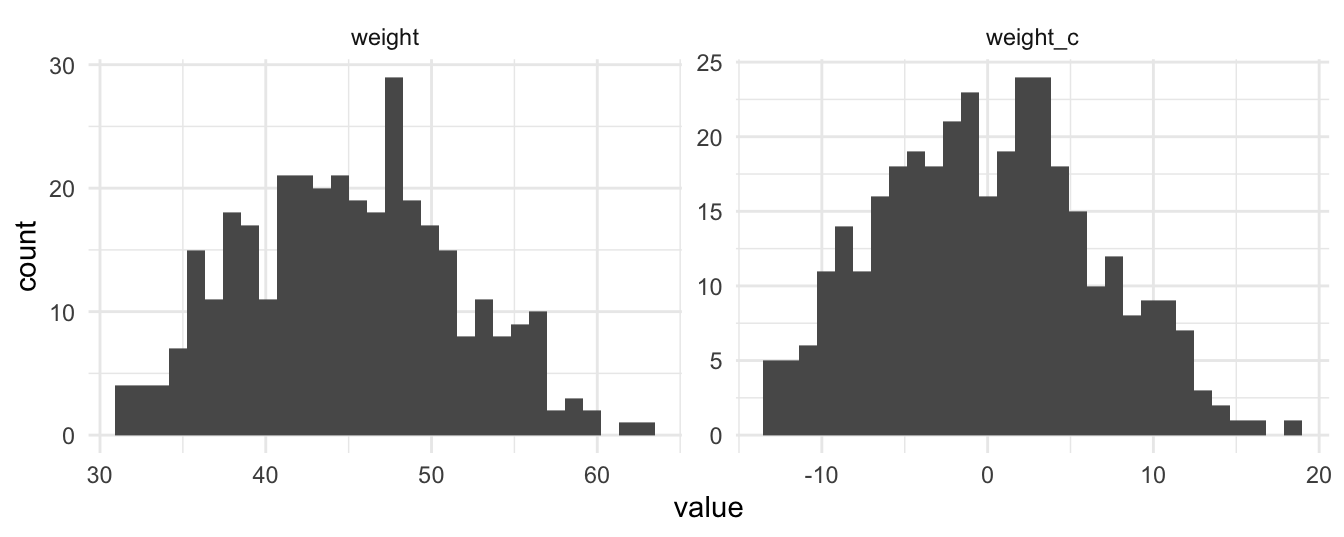
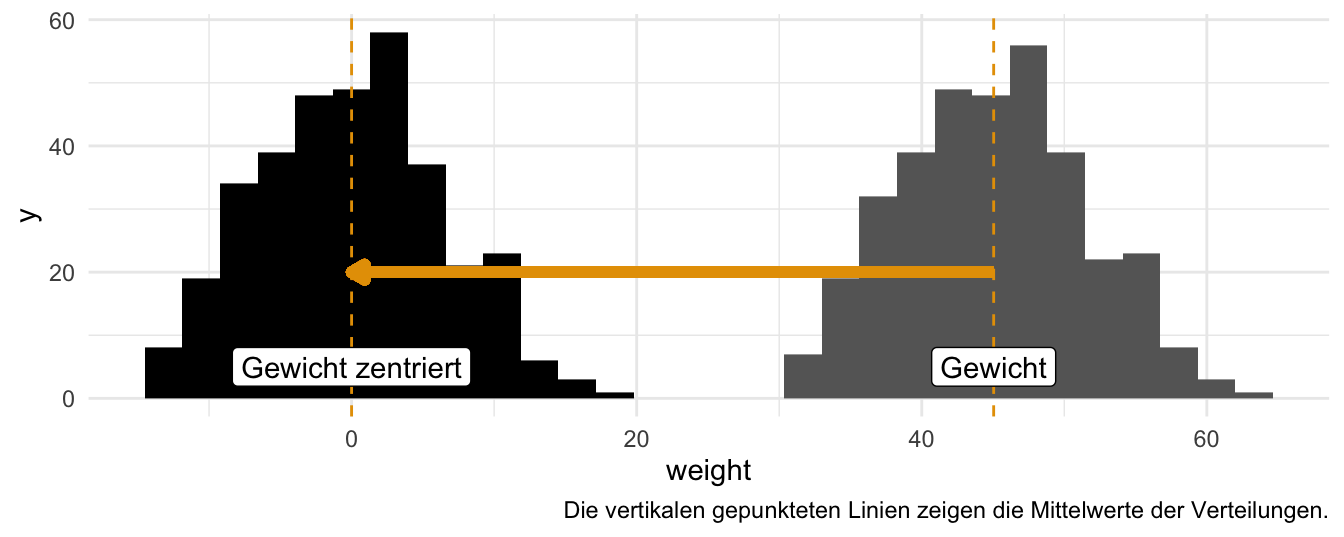
fix diagram

diff --git a/docs/0900-lineare-modelle.html b/docs/0900-lineare-modelle.html
@@ -549,7 +549,7 @@ window.Quarto = {
 <section id="sec-data-lm" class="level3" data-number="8.1.6">
 <h3 data-number="8.1.6" class="anchored" data-anchor-id="sec-data-lm"><span class="header-section-number">8.1.6</span> Benötigte Daten</h3>
 <p>In diesem Kapitel benötigen wir den Datensatz zu den !Kung-Leuten, <code>Howell1a</code>, <span class="citation" data-cites="mcelreath2020">McElreath (<a href="references.html#ref-mcelreath2020" role="doc-biblioref">2020</a>)</span>. Sie können ihn <a href="https://raw.githubusercontent.com/sebastiansauer/Lehre/main/data/Howell1a.csv">hier</a> herunterladen.</p>
[2 lines of base64/hex data omitted]
       const downloadURL = window.URL.createObjectURL(blob);
       const a = document.createElement('a');
       document.body.appendChild(a);
@@ -557,7 +557,7 @@ window.Quarto = {
       a.download = 'Howell1a.csv'; a.click();
       window.URL.revokeObjectURL(downloadURL);
       document.body.removeChild(a);
-        });"><button class="btn btn-default downloadthis  " id="dnldts18908"><i class="bi bi-download"></i> Download </button></a></p>
+        });"><button class="btn btn-default downloadthis  " id="dnldts40681"><i class="bi bi-download"></i> Download </button></a></p>
 <div class="cell" data-layout-align="center">
 <details class="code-fold">
 <summary>Code</summary>
@@ -1373,28 +1373,16 @@ Abbildung&nbsp;8.5: Korrelationsmatrix
 </div>
 </div>
 </div>
-<p>Wie man sieht, ist die Verteilung “zur Seite geschoben”: Der Mittelwert liegt jetzt eben bei 0, s. <span class="quarto-unresolved-ref">?fig-d3-center</span>.</p>
+<p>Wie man sieht, wird die Verteilung von <code>weight</code> durch die Zentrierung “zur Seite geschoben”: Der Mittelwert von <code>weight_c</code> (das zentrierte Gewicht) liegt jetzt bei 0, s. <a href="#fig-d3-center" class="quarto-xref">Abbildung&nbsp;<span>8.6</span></a>.</p>
 <div class="cell" data-layout-align="center">
 <div class="cell-output-display">
-<div id="fig-d3-center-1" class="quarto-float quarto-figure quarto-figure-center anchored" data-fig-align="center">
+<div id="fig-d3-center" class="quarto-float quarto-figure quarto-figure-center anchored" data-fig-align="center">
 <figure class="quarto-float quarto-float-fig figure">
-<div aria-describedby="fig-d3-center-1-caption-0ceaefa1-69ba-4598-a22c-09a6ac19f8ca">
+<div aria-describedby="fig-d3-center-caption-0ceaefa1-69ba-4598-a22c-09a6ac19f8ca">
 <img src="0900-lineare-modelle_files/figure-html/fig-d3-center-1.png" class="img-fluid quarto-figure quarto-figure-center figure-img" style="width:75.0%">
 </div>
-<figcaption class="quarto-float-caption-bottom quarto-float-caption quarto-float-fig" id="fig-d3-center-1-caption-0ceaefa1-69ba-4598-a22c-09a6ac19f8ca">
+<figcaption class="quarto-float-caption-bottom quarto-float-caption quarto-float-fig" id="fig-d3-center-caption-0ceaefa1-69ba-4598-a22c-09a6ac19f8ca">
 Abbildung&nbsp;8.6: Das Zentrieren ändert die Verteilungsform nicht, sondern “schiebt” die Verteilung nur zur Seite
-</figcaption>
-</figure>
-</div>
-</div>
-<div class="cell-output-display">
-<div id="fig-d3-center-2" class="quarto-float quarto-figure quarto-figure-center anchored" data-fig-align="center">
-<figure class="quarto-float quarto-float-fig figure">
-<div aria-describedby="fig-d3-center-2-caption-0ceaefa1-69ba-4598-a22c-09a6ac19f8ca">
-<img src="0900-lineare-modelle_files/figure-html/fig-d3-center-2.png" class="img-fluid quarto-figure quarto-figure-center figure-img" style="width:75.0%">
-</div>
-<figcaption class="quarto-float-caption-bottom quarto-float-caption quarto-float-fig" id="fig-d3-center-2-caption-0ceaefa1-69ba-4598-a22c-09a6ac19f8ca">
-Abbildung&nbsp;8.7: Das Zentrieren ändert die Verteilungsform nicht, sondern “schiebt” die Verteilung nur zur Seite
 </figcaption>
 </figure>
 </div>
@@ -2076,7 +2064,7 @@ Tabelle&nbsp;8.2: Parameter von m43a
 <div id="def-pd" class="theorem definition">
 <p><span class="theorem-title"><strong>Definition 8.1 (Effektwahrscheinlichkeit)</strong></span> Die Kennzahl <code>pd</code> (propability of direction) gibt die <em>Effektwahrscheinlichkeit</em> an: Die Wahrscheinlichkeit, dass der Effekt positiv (also größer als Null) oder negativ ist (je nachdem ob der Median des Effekts positiv oder negativ ist). <code>pd</code> gibt aber nicht an, wie stark der Effekt ist, nur ob er klar auf einer Seite der Null liegt. Damit ist er so etwas (grob!) Ähnliches wie der p-Wert in der Frequentistischen Statistik <span class="citation" data-cites="makowski2019">(<a href="references.html#ref-makowski2019" role="doc-biblioref">Makowski et al., 2019</a>)</span>.</p>
 </div>
-<p>Am besten das Diagramm dazu anschauen, s <a href="#fig-pd1" class="quarto-xref">Abbildung&nbsp;<span>8.8</span></a>.</p>
+<p>Am besten das Diagramm dazu anschauen, s <a href="#fig-pd1" class="quarto-xref">Abbildung&nbsp;<span>8.7</span></a>.</p>
 <div class="cell" data-layout-align="center">
 <details class="code-fold">
 <summary>Code</summary>
@@ -2089,7 +2077,7 @@ Tabelle&nbsp;8.2: Parameter von m43a
 <img src="0900-lineare-modelle_files/figure-html/fig-pd1-1.png" class="img-fluid quarto-figure quarto-figure-center figure-img" style="width:75.0%">
 </div>
 <figcaption class="quarto-float-caption-bottom quarto-float-caption quarto-float-fig" id="fig-pd1-caption-0ceaefa1-69ba-4598-a22c-09a6ac19f8ca">
-Abbildung&nbsp;8.8: Diagramm zur Probability of Direction, Modell m43a
+Abbildung&nbsp;8.7: Diagramm zur Probability of Direction, Modell m43a
 </figcaption>
 </figure>
 </div>
@@ -2143,7 +2131,7 @@ Abbildung&nbsp;8.8: Diagramm zur Probability of Direction, Modell m43a
 </div>
 </div>
 <div id="tabset-2-2" class="tab-pane" role="tabpanel" aria-labelledby="tabset-2-2-tab">
-<p>Einfacher ist die Syntax vielleicht, wenn man die Funktion <code>estimate_expectation</code> benutzt, s. <a href="#fig-expect-m43a-expect" class="quarto-xref">Abbildung&nbsp;<span>8.9</span></a>. Mit “expectation” sind hier die erwarteten Werte, also die Regressionsgerade, gemeint.</p>
+<p>Einfacher ist die Syntax vielleicht, wenn man die Funktion <code>estimate_expectation</code> benutzt, s. <a href="#fig-expect-m43a-expect" class="quarto-xref">Abbildung&nbsp;<span>8.8</span></a>. Mit “expectation” sind hier die erwarteten Werte, also die Regressionsgerade, gemeint.</p>
 <div class="cell" data-layout-align="center">
 <details class="code-fold">
 <summary>Code</summary>
@@ -2157,7 +2145,7 @@ Abbildung&nbsp;8.8: Diagramm zur Probability of Direction, Modell m43a
 <img src="0900-lineare-modelle_files/figure-html/fig-expect-m43a-expect-1.png" class="img-fluid quarto-figure quarto-figure-center figure-img" style="width:75.0%">
 </div>
 <figcaption class="quarto-float-caption-bottom quarto-float-caption quarto-float-fig" id="fig-expect-m43a-expect-caption-0ceaefa1-69ba-4598-a22c-09a6ac19f8ca">
-Abbildung&nbsp;8.9: Erwartete Werte des Modell m43a, sprich, die Regressionsgerade
+Abbildung&nbsp;8.8: Erwartete Werte des Modell m43a, sprich, die Regressionsgerade
 </figcaption>
 </figure>
 </div>
@@ -2204,7 +2192,7 @@ Abbildung&nbsp;8.9: Erwartete Werte des Modell m43a, sprich, die Regressionsgera
 </div>
 </div>
 <p>Wie wir gesehen haben, nutzen wir diese Tabelle der Post-Verteilung immer wieder. Speichern wir uns sie also als ein Objekt ab, <code>m43_post</code>. Jetzt haben wir wieder eine schöne Tabelle mit Stichproben aus der Post-Verteilung, die wir wie gewohnt befragen können. Eine Visualisierung zeigt gut sowohl Lage- als auch Streuungsmaße der Parameter, zumindest grob.,</p>
-<p>Oder man erstellt selber ein Diagramm mit <code>ggplot</code> oder <code>ggpubr</code>, s. <a href="#fig-m43a-post" class="quarto-xref">Abbildung&nbsp;<span>8.10</span></a>.</p>
+<p>Oder man erstellt selber ein Diagramm mit <code>ggplot</code> oder <code>ggpubr</code>, s. <a href="#fig-m43a-post" class="quarto-xref">Abbildung&nbsp;<span>8.9</span></a>.</p>
 <div class="cell" data-layout-align="center">
 <details class="code-fold">
 <summary>Code</summary>
@@ -2219,13 +2207,13 @@ Abbildung&nbsp;8.9: Erwartete Werte des Modell m43a, sprich, die Regressionsgera
 <img src="0900-lineare-modelle_files/figure-html/fig-m43a-post-1.png" class="img-fluid quarto-figure quarto-figure-center figure-img" style="width:75.0%">
 </div>
 <figcaption class="quarto-float-caption-bottom quarto-float-caption quarto-float-fig" id="fig-m43a-post-caption-0ceaefa1-69ba-4598-a22c-09a6ac19f8ca">
-Abbildung&nbsp;8.10: Postverteilung für den Parameter Gewicht (zentriert)
+Abbildung&nbsp;8.9: Postverteilung für den Parameter Gewicht (zentriert)
 </figcaption>
 </figure>
 </div>
 </div>
 </div>
-<p><a href="#fig-m43a-post" class="quarto-xref">Abbildung&nbsp;<span>8.10</span></a> zeigt, dass Mittelwert, Median und Modus eng zusammenliegen. Zur Erinnerung: Der Modus gibt den häufigsten, d.h. hier also den wahrscheinlichsten, Wert an. Der Modus wird hier auch <em>Maximum a Posteriori</em> (MAP) genannt, daher:</p>
+<p><a href="#fig-m43a-post" class="quarto-xref">Abbildung&nbsp;<span>8.9</span></a> zeigt, dass Mittelwert, Median und Modus eng zusammenliegen. Zur Erinnerung: Der Modus gibt den häufigsten, d.h. hier also den wahrscheinlichsten, Wert an. Der Modus wird hier auch <em>Maximum a Posteriori</em> (MAP) genannt, daher:</p>
 <div class="cell" data-layout-align="center">
 <details class="code-fold">
 <summary>Code</summary>
@@ -2233,7 +2221,7 @@ Abbildung&nbsp;8.10: Postverteilung für den Parameter Gewicht (zentriert)
 <span id="cb19-2"><a href="#cb19-2" aria-hidden="true" tabindex="-1"></a>  <span class="fu">summarise</span>(<span class="at">map_b1 =</span> <span class="fu">map_estimate</span>(weight_c))</span></code><button title="In die Zwischenablage kopieren" class="code-copy-button"><i class="bi"></i></button></pre></div>
 </details>
 </div>
-<p>Hier ist die Verteilung von <span class="math inline">\(\sigma\)</span> visualisiert, s. <a href="#fig-m43a-post2" class="quarto-xref">Abbildung&nbsp;<span>8.11</span></a>.</p>
+<p>Hier ist die Verteilung von <span class="math inline">\(\sigma\)</span> visualisiert, s. <a href="#fig-m43a-post2" class="quarto-xref">Abbildung&nbsp;<span>8.10</span></a>.</p>
 <div class="cell" data-layout-align="center">
 <details class="code-fold">
 <summary>Code</summary>
@@ -2248,13 +2236,13 @@ Abbildung&nbsp;8.10: Postverteilung für den Parameter Gewicht (zentriert)
 <img src="0900-lineare-modelle_files/figure-html/fig-m43a-post2-1.png" class="img-fluid quarto-figure quarto-figure-center figure-img" style="width:75.0%">
 </div>
 <figcaption class="quarto-float-caption-bottom quarto-float-caption quarto-float-fig" id="fig-m43a-post2-caption-0ceaefa1-69ba-4598-a22c-09a6ac19f8ca">
-Abbildung&nbsp;8.11: Die Post-Verteilung für den Parameter sigma, m43a
+Abbildung&nbsp;8.10: Die Post-Verteilung für den Parameter sigma, m43a
 </figcaption>
 </figure>
 </div>
 </div>
 </div>
-<p>Alternativ kann man sich die Verteilung eines Parameters auch so ausgeben lassen, gleich mit Intervallgrenzen, z.B. 95%, s. <a href="#fig-m43a-plot" class="quarto-xref">Abbildung&nbsp;<span>8.12</span></a>.</p>
+<p>Alternativ kann man sich die Verteilung eines Parameters auch so ausgeben lassen, gleich mit Intervallgrenzen, z.B. 95%, s. <a href="#fig-m43a-plot" class="quarto-xref">Abbildung&nbsp;<span>8.11</span></a>.</p>
 <div class="cell" data-layout-align="center">
 <details class="code-fold">
 <summary>Code</summary>
@@ -2269,7 +2257,7 @@ Abbildung&nbsp;8.11: Die Post-Verteilung für den Parameter sigma, m43a
 <img src="0900-lineare-modelle_files/figure-html/fig-m43a-plot-1.png" class="img-fluid quarto-figure quarto-figure-center figure-img" style="width:75.0%">
 </div>
 <figcaption class="quarto-float-caption-bottom quarto-float-caption quarto-float-fig" id="fig-m43a-plot-caption-0ceaefa1-69ba-4598-a22c-09a6ac19f8ca">
-Abbildung&nbsp;8.12: Die Parameter Gewicht (zentriert) und sigma des Modells m43a
+Abbildung&nbsp;8.11: Die Parameter Gewicht (zentriert) und sigma des Modells m43a
 </figcaption>
 </figure>
 </div>
@@ -2384,7 +2372,7 @@ Hinweis
 </div>
 </div>
 </div>
-<p>Einfacher ist die Visualisierung mit <code>estimate_expectation</code>, s. <a href="#fig-m43a-estimate-expectation" class="quarto-xref">Abbildung&nbsp;<span>8.13</span></a>.</p>
+<p>Einfacher ist die Visualisierung mit <code>estimate_expectation</code>, s. <a href="#fig-m43a-estimate-expectation" class="quarto-xref">Abbildung&nbsp;<span>8.12</span></a>.</p>
 <div class="cell" data-layout-align="center">
 <details class="code-fold">
 <summary>Code</summary>
@@ -2397,7 +2385,7 @@ Hinweis
 <img src="0900-lineare-modelle_files/figure-html/fig-m43a-estimate-expectation-1.png" class="img-fluid quarto-figure quarto-figure-center figure-img" style="width:75.0%">
 </div>
 <figcaption class="quarto-float-caption-bottom quarto-float-caption quarto-float-fig" id="fig-m43a-estimate-expectation-caption-0ceaefa1-69ba-4598-a22c-09a6ac19f8ca">
-Abbildung&nbsp;8.13: Schätzbereich für die bedingten mittleren Körpergröße, also die Regressionsgerade mit Unsicherheitsintervall
+Abbildung&nbsp;8.12: Schätzbereich für die bedingten mittleren Körpergröße, also die Regressionsgerade mit Unsicherheitsintervall
 </figcaption>
 </figure>
 </div>
@@ -2529,7 +2517,7 @@ Hinweis
 <section id="bei-jedem-prädiktorwert-eine-post-verteilung-für-mu" class="level3" data-number="8.6.1">
 <h3 data-number="8.6.1" class="anchored" data-anchor-id="bei-jedem-prädiktorwert-eine-post-verteilung-für-mu"><span class="header-section-number">8.6.1</span> Bei jedem Prädiktorwert eine Post-Verteilung für <span class="math inline">\(\mu\)</span></h3>
 <p>Komfort pur: Unser Modell erlaubt uns für jeden beliebigen Wert des Prädiktors eine Post-Verteilung (von <span class="math inline">\(\mu\)</span>) zu berechnen.</p>
-<p>Hier am Beispiel von <code>m42</code>, s. <a href="#fig-post42" class="quarto-xref">Abbildung&nbsp;<span>8.14</span></a>.</p>
+<p>Hier am Beispiel von <code>m42</code>, s. <a href="#fig-post42" class="quarto-xref">Abbildung&nbsp;<span>8.13</span></a>.</p>
 <div class="cell" data-layout-align="center">
 <div class="cell-output-display">
 <div id="fig-post42" class="quarto-float quarto-figure quarto-figure-center anchored" data-fig-align="center">
@@ -2538,7 +2526,7 @@ Hinweis
 <img src="0900-lineare-modelle_files/figure-html/fig-post42-1.png" class="img-fluid quarto-figure quarto-figure-center figure-img" style="width:100.0%">
 </div>
 <figcaption class="quarto-float-caption-bottom quarto-float-caption quarto-float-fig" id="fig-post42-caption-0ceaefa1-69ba-4598-a22c-09a6ac19f8ca">
-Abbildung&nbsp;8.14: Für jeden beliebigen Prädiktorwert kann man eine Post-Verteilung bekommen. A: Regressionsmodell mit einigen ausgewählten Gewichtswerten. Es ist jeweils die Wahrscheinlichkeitsverteilung für den vorhergesagten Y-Wert dargestellt (hier sind die Verteilungen zu groß dargestellt zur besseren Sichtbarkeit). B: Für jeden beliebigen Gewichtswert (Y) bekommt man eine (auf den jeweiligen X-Wert bedingten) Post-Verteilung.
+Abbildung&nbsp;8.13: Für jeden beliebigen Prädiktorwert kann man eine Post-Verteilung bekommen. A: Regressionsmodell mit einigen ausgewählten Gewichtswerten. Es ist jeweils die Wahrscheinlichkeitsverteilung für den vorhergesagten Y-Wert dargestellt (hier sind die Verteilungen zu groß dargestellt zur besseren Sichtbarkeit). B: Für jeden beliebigen Gewichtswert (Y) bekommt man eine (auf den jeweiligen X-Wert bedingten) Post-Verteilung.
 </figcaption>
 </figure>
 </div>
@@ -2560,7 +2548,7 @@ Abbildung&nbsp;8.14: Für jeden beliebigen Prädiktorwert kann man eine Post-Ver
 <span id="cb30-3"><a href="#cb30-3" aria-hidden="true" tabindex="-1"></a>  <span class="fu">mutate</span>(<span class="at">mu_at_45 =</span> <span class="st">`</span><span class="at">(Intercept)</span><span class="st">`</span>)</span></code><button title="In die Zwischenablage kopieren" class="code-copy-button"><i class="bi"></i></button></pre></div>
 </details>
 </div>
-<p>Und plotten diese, s. <a href="#fig-mu-at-45" class="quarto-xref">Abbildung&nbsp;<span>8.15</span></a>.</p>
+<p>Und plotten diese, s. <a href="#fig-mu-at-45" class="quarto-xref">Abbildung&nbsp;<span>8.14</span></a>.</p>
 <div class="cell" data-layout-align="center">
 <details class="code-fold">
 <summary>Code</summary>
@@ -2577,7 +2565,7 @@ Abbildung&nbsp;8.14: Für jeden beliebigen Prädiktorwert kann man eine Post-Ver
 <img src="0900-lineare-modelle_files/figure-html/fig-mu-at-45-1.png" class="img-fluid quarto-figure quarto-figure-center figure-img" style="width:75.0%">
 </div>
 <figcaption class="quarto-float-caption-bottom quarto-float-caption quarto-float-fig" id="fig-mu-at-45-caption-0ceaefa1-69ba-4598-a22c-09a6ac19f8ca">
-Abbildung&nbsp;8.15: Post-Verteilung der Größe (laut unserem Modell) bei einem Gewicht von 45kg
+Abbildung&nbsp;8.14: Post-Verteilung der Größe (laut unserem Modell) bei einem Gewicht von 45kg
 </figcaption>
 </figure>
 </div>
@@ -2611,7 +2599,7 @@ Tabelle&nbsp;8.3: Die Verteilung von mu bedingt auf ein Gewicht von 50kg.
 </figure>
 </div>
 </div>
-<p>Die Verteilung der mittleren Größe bei einem Gewicht von 50kg ist weiter “rechts” (Richtung höhere Größe) zentriert, s. <a href="#fig-mu-at-50" class="quarto-xref">Abbildung&nbsp;<span>8.16</span></a>.</p>
+<p>Die Verteilung der mittleren Größe bei einem Gewicht von 50kg ist weiter “rechts” (Richtung höhere Größe) zentriert, s. <a href="#fig-mu-at-50" class="quarto-xref">Abbildung&nbsp;<span>8.15</span></a>.</p>
 <div class="cell" data-layout-align="center">
 <details class="code-fold">
 <summary>Code</summary>
@@ -2628,7 +2616,7 @@ Tabelle&nbsp;8.3: Die Verteilung von mu bedingt auf ein Gewicht von 50kg.
 <img src="0900-lineare-modelle_files/figure-html/fig-mu-at-50-1.png" class="img-fluid quarto-figure quarto-figure-center figure-img" style="width:75.0%">
 </div>
 <figcaption class="quarto-float-caption-bottom quarto-float-caption quarto-float-fig" id="fig-mu-at-50-caption-0ceaefa1-69ba-4598-a22c-09a6ac19f8ca">
-Abbildung&nbsp;8.16: Post-Verteilung der mittleren Größe (laut unserem Modell) bedingt auf ein Gewicht von 50 kg
+Abbildung&nbsp;8.15: Post-Verteilung der mittleren Größe (laut unserem Modell) bedingt auf ein Gewicht von 50 kg
 </figcaption>
 </figure>
 </div>
@@ -3951,7 +3939,7 @@ Wichtig
 <li>Ungewissheit der Vorhersagen (das Modell macht keine perfekten Vorhersagen)</li>
 </ol>
 <p>Die <em>Post-Verteilung</em> berücksichtigt nur die Ungewissheit in den Modellparametern, macht also nur Aussagen zur Regressionsgeraden.</p>
-<p>Die PPV macht Aussagen für konkrete Beobachtungen. Der Unterschied ist in <a href="#fig-ppv-vs-post" class="quarto-xref">Abbildung&nbsp;<span>8.17</span></a> dargestellt; die Funktionen stammen übrigens aus <code>{easystats}</code>.</p>
+<p>Die PPV macht Aussagen für konkrete Beobachtungen. Der Unterschied ist in <a href="#fig-ppv-vs-post" class="quarto-xref">Abbildung&nbsp;<span>8.16</span></a> dargestellt; die Funktionen stammen übrigens aus <code>{easystats}</code>.</p>
 <details class="code-fold">
 <summary>Code</summary>
 <div class="sourceCode cell-code" id="cb44"><pre class="sourceCode r code-with-copy"><code class="sourceCode r"><span id="cb44-1"><a href="#cb44-1" aria-hidden="true" tabindex="-1"></a><span class="fu">estimate_prediction</span>(m43a) <span class="sc">%&gt;%</span> <span class="fu">plot</span>()</span>
@@ -3988,7 +3976,7 @@ Wichtig
 </div>
 </div>
 <figcaption class="quarto-float-caption-bottom quarto-float-caption quarto-float-fig" id="fig-ppv-vs-post-caption-0ceaefa1-69ba-4598-a22c-09a6ac19f8ca">
-Abbildung&nbsp;8.17: PPV vs.&nbsp;Post-Verteilung
+Abbildung&nbsp;8.16: PPV vs.&nbsp;Post-Verteilung
 </figcaption>
 </figure>
 </div>
@@ -4060,7 +4048,7 @@ Abbildung&nbsp;8.17: PPV vs.&nbsp;Post-Verteilung
 </section>
 <section id="perzentilintervalle-für-verschiedenen-prädiktorwerte-visualisiert" class="level3" data-number="8.8.2">
 <h3 data-number="8.8.2" class="anchored" data-anchor-id="perzentilintervalle-für-verschiedenen-prädiktorwerte-visualisiert"><span class="header-section-number">8.8.2</span> Perzentilintervalle für verschiedenen Prädiktorwerte visualisiert</h3>
-<p><a href="#fig-m43a-nochmal" class="quarto-xref">Abbildung&nbsp;<span>8.18</span></a> visualisiert die Ungewissheit von Vorhersagen laut der PPV. Die Ungewissheit in <a href="#fig-m43a-nochmal" class="quarto-xref">Abbildung&nbsp;<span>8.18</span></a> ist die Antwort auf die Frage: “Wie sicher sind wir uns, zur Größe einer !Kung-Person, gegeben dass die z.B. 10 kg mehr als der Durchschnitt wiegt?” Eine Vorhersage bezeichnet man auch als “bedingte Verteilung”, da man den Wert einer Verteilung voraussagt, <em>gegeben</em> einer Bedingung, z.B. <code>weight_c = 10</code>.</p>
+<p><a href="#fig-m43a-nochmal" class="quarto-xref">Abbildung&nbsp;<span>8.17</span></a> visualisiert die Ungewissheit von Vorhersagen laut der PPV. Die Ungewissheit in <a href="#fig-m43a-nochmal" class="quarto-xref">Abbildung&nbsp;<span>8.17</span></a> ist die Antwort auf die Frage: “Wie sicher sind wir uns, zur Größe einer !Kung-Person, gegeben dass die z.B. 10 kg mehr als der Durchschnitt wiegt?” Eine Vorhersage bezeichnet man auch als “bedingte Verteilung”, da man den Wert einer Verteilung voraussagt, <em>gegeben</em> einer Bedingung, z.B. <code>weight_c = 10</code>.</p>
 <div class="cell" data-layout-align="center">
 <div class="cell-output-display">
 <div id="fig-m43a-nochmal" class="quarto-float quarto-figure quarto-figure-center anchored" data-fig-align="center">
@@ -4069,18 +4057,18 @@ Abbildung&nbsp;8.17: PPV vs.&nbsp;Post-Verteilung
 <img src="0900-lineare-modelle_files/figure-html/fig-m43a-nochmal-1.png" class="img-fluid quarto-figure quarto-figure-center figure-img" style="width:75.0%">
 </div>
 <figcaption class="quarto-float-caption-bottom quarto-float-caption quarto-float-fig" id="fig-m43a-nochmal-caption-0ceaefa1-69ba-4598-a22c-09a6ac19f8ca">
-Abbildung&nbsp;8.18: Visualisierung der Ungewissheit der Vorhersagen laut PPV: Die Vorhersage von Beobachtungen beinhaltet mehr Ungewissheit als die Vorhersage von zu erwartenden Werten, daher sind die Ungewissheitsintervalle der PPV größer als die der Post-Verteilung.
+Abbildung&nbsp;8.17: Visualisierung der Ungewissheit der Vorhersagen laut PPV: Die Vorhersage von Beobachtungen beinhaltet mehr Ungewissheit als die Vorhersage von zu erwartenden Werten, daher sind die Ungewissheitsintervalle der PPV größer als die der Post-Verteilung.
 </figcaption>
 </figure>
 </div>
 </div>
 </div>
 <p>Die vertikalen Balken geben die 95%-KI wieder, die wir jeweils zu erwarten haben.</p>
-<p>Noch eine andere Visualisierung, s. <a href="#fig-katzenaugen" class="quarto-xref">Abbildung&nbsp;<span>8.19</span></a>; je dicker die “Katzenaugen”, desto mehr Stichproben (samples) liegen vor an der Stelle, und umso genauer ist die Schätzung.</p>
+<p>Noch eine andere Visualisierung, s. <a href="#fig-katzenaugen" class="quarto-xref">Abbildung&nbsp;<span>8.18</span></a>; je dicker die “Katzenaugen”, desto mehr Stichproben (samples) liegen vor an der Stelle, und umso genauer ist die Schätzung.</p>
 <div>
 
 </div>
-<div class="cell quarto-layout-panel" data-layout-ncol="2" data-layout-align="center">
+<div class="cell quarto-layout-panel" data-layout-align="center" data-layout-ncol="2">
 <div class="quarto-layout-row">
 <div class="cell-output-display quarto-layout-cell" style="flex-basis: 50.0%;justify-content: center;">
 <div id="fig-katzenaugen" class="quarto-float quarto-figure quarto-figure-center anchored" data-fig-align="center">
@@ -4089,7 +4077,7 @@ Abbildung&nbsp;8.18: Visualisierung der Ungewissheit der Vorhersagen laut PPV: D
 <img src="0900-lineare-modelle_files/figure-html/fig-katzenaugen-1.png" class="img-fluid quarto-figure quarto-figure-center figure-img" style="width:75.0%">
 </div>
 <figcaption class="quarto-float-caption-bottom quarto-float-caption quarto-float-fig" id="fig-katzenaugen-caption-0ceaefa1-69ba-4598-a22c-09a6ac19f8ca">
-Abbildung&nbsp;8.19: Die PPV für bestimmte Gewichtswerte w, visualisiert mit Katzenaugen-Diagrammen
+Abbildung&nbsp;8.18: Die PPV für bestimmte Gewichtswerte w, visualisiert mit Katzenaugen-Diagrammen
 </figcaption>
 </figure>
 </div>
@@ -4100,7 +4088,7 @@ Abbildung&nbsp;8.19: Die PPV für bestimmte Gewichtswerte w, visualisiert mit Ka
 </section>
 <section id="die-ppv-über-alle-beobachtungen-visualisiert" class="level3" data-number="8.8.3">
 <h3 data-number="8.8.3" class="anchored" data-anchor-id="die-ppv-über-alle-beobachtungen-visualisiert"><span class="header-section-number">8.8.3</span> Die PPV über alle Beobachtungen visualisiert</h3>
-<p>Gerade eben haben wir <em>bedingte</em> PPVen angeschaut: Also eine PPV für einen <em>bestimmten</em> Prädiktorwert, z.B. bei einer Person mittleren Gewichts. Wir können auch den Mittelwert über alle bedingten PPV anschauen, sozusagen die “<em>Master-PPV</em>” oder “unbedingte PPV” oder schlicht PPV. Vergleichen wir die echten Werte für <code>height</code>, <span class="math inline">\(y\)</span>, mit den von der PPV simulierten Werten für <code>height</code>, <span class="math inline">\(y_{rep}\)</span>, s. <a href="#fig-ppv-check" class="quarto-xref">Abbildung&nbsp;<span>8.20</span></a>.</p>
+<p>Gerade eben haben wir <em>bedingte</em> PPVen angeschaut: Also eine PPV für einen <em>bestimmten</em> Prädiktorwert, z.B. bei einer Person mittleren Gewichts. Wir können auch den Mittelwert über alle bedingten PPV anschauen, sozusagen die “<em>Master-PPV</em>” oder “unbedingte PPV” oder schlicht PPV. Vergleichen wir die echten Werte für <code>height</code>, <span class="math inline">\(y\)</span>, mit den von der PPV simulierten Werten für <code>height</code>, <span class="math inline">\(y_{rep}\)</span>, s. <a href="#fig-ppv-check" class="quarto-xref">Abbildung&nbsp;<span>8.19</span></a>.</p>
 <div class="cell" data-layout-align="center">
 <details class="code-fold">
 <summary>Code</summary>
@@ -4116,7 +4104,7 @@ Abbildung&nbsp;8.19: Die PPV für bestimmte Gewichtswerte w, visualisiert mit Ka
 </div>
 </div>
 <figcaption class="quarto-float-caption-bottom quarto-float-caption quarto-float-fig" id="fig-ppv-check-caption-0ceaefa1-69ba-4598-a22c-09a6ac19f8ca">
-Abbildung&nbsp;8.20: Vergleich der Vorhersagen für y (leichte, blaue Linien) mit der beobachteten Verteilung von y
+Abbildung&nbsp;8.19: Vergleich der Vorhersagen für y (leichte, blaue Linien) mit der beobachteten Verteilung von y
 </figcaption>
 </figure>
 </div>

diff --git a/docs/index.html b/docs/index.html
@@ -363,7 +363,7 @@ window.Quarto = {
     <div>
     <div class="quarto-title-meta-heading">Veröffentlichungsdatum</div>
     <div class="quarto-title-meta-contents">
-      <p class="date">27. November 2024</p>
+      <p class="date">2. Dezember 2024</p>
     </div>
   </div>
   
